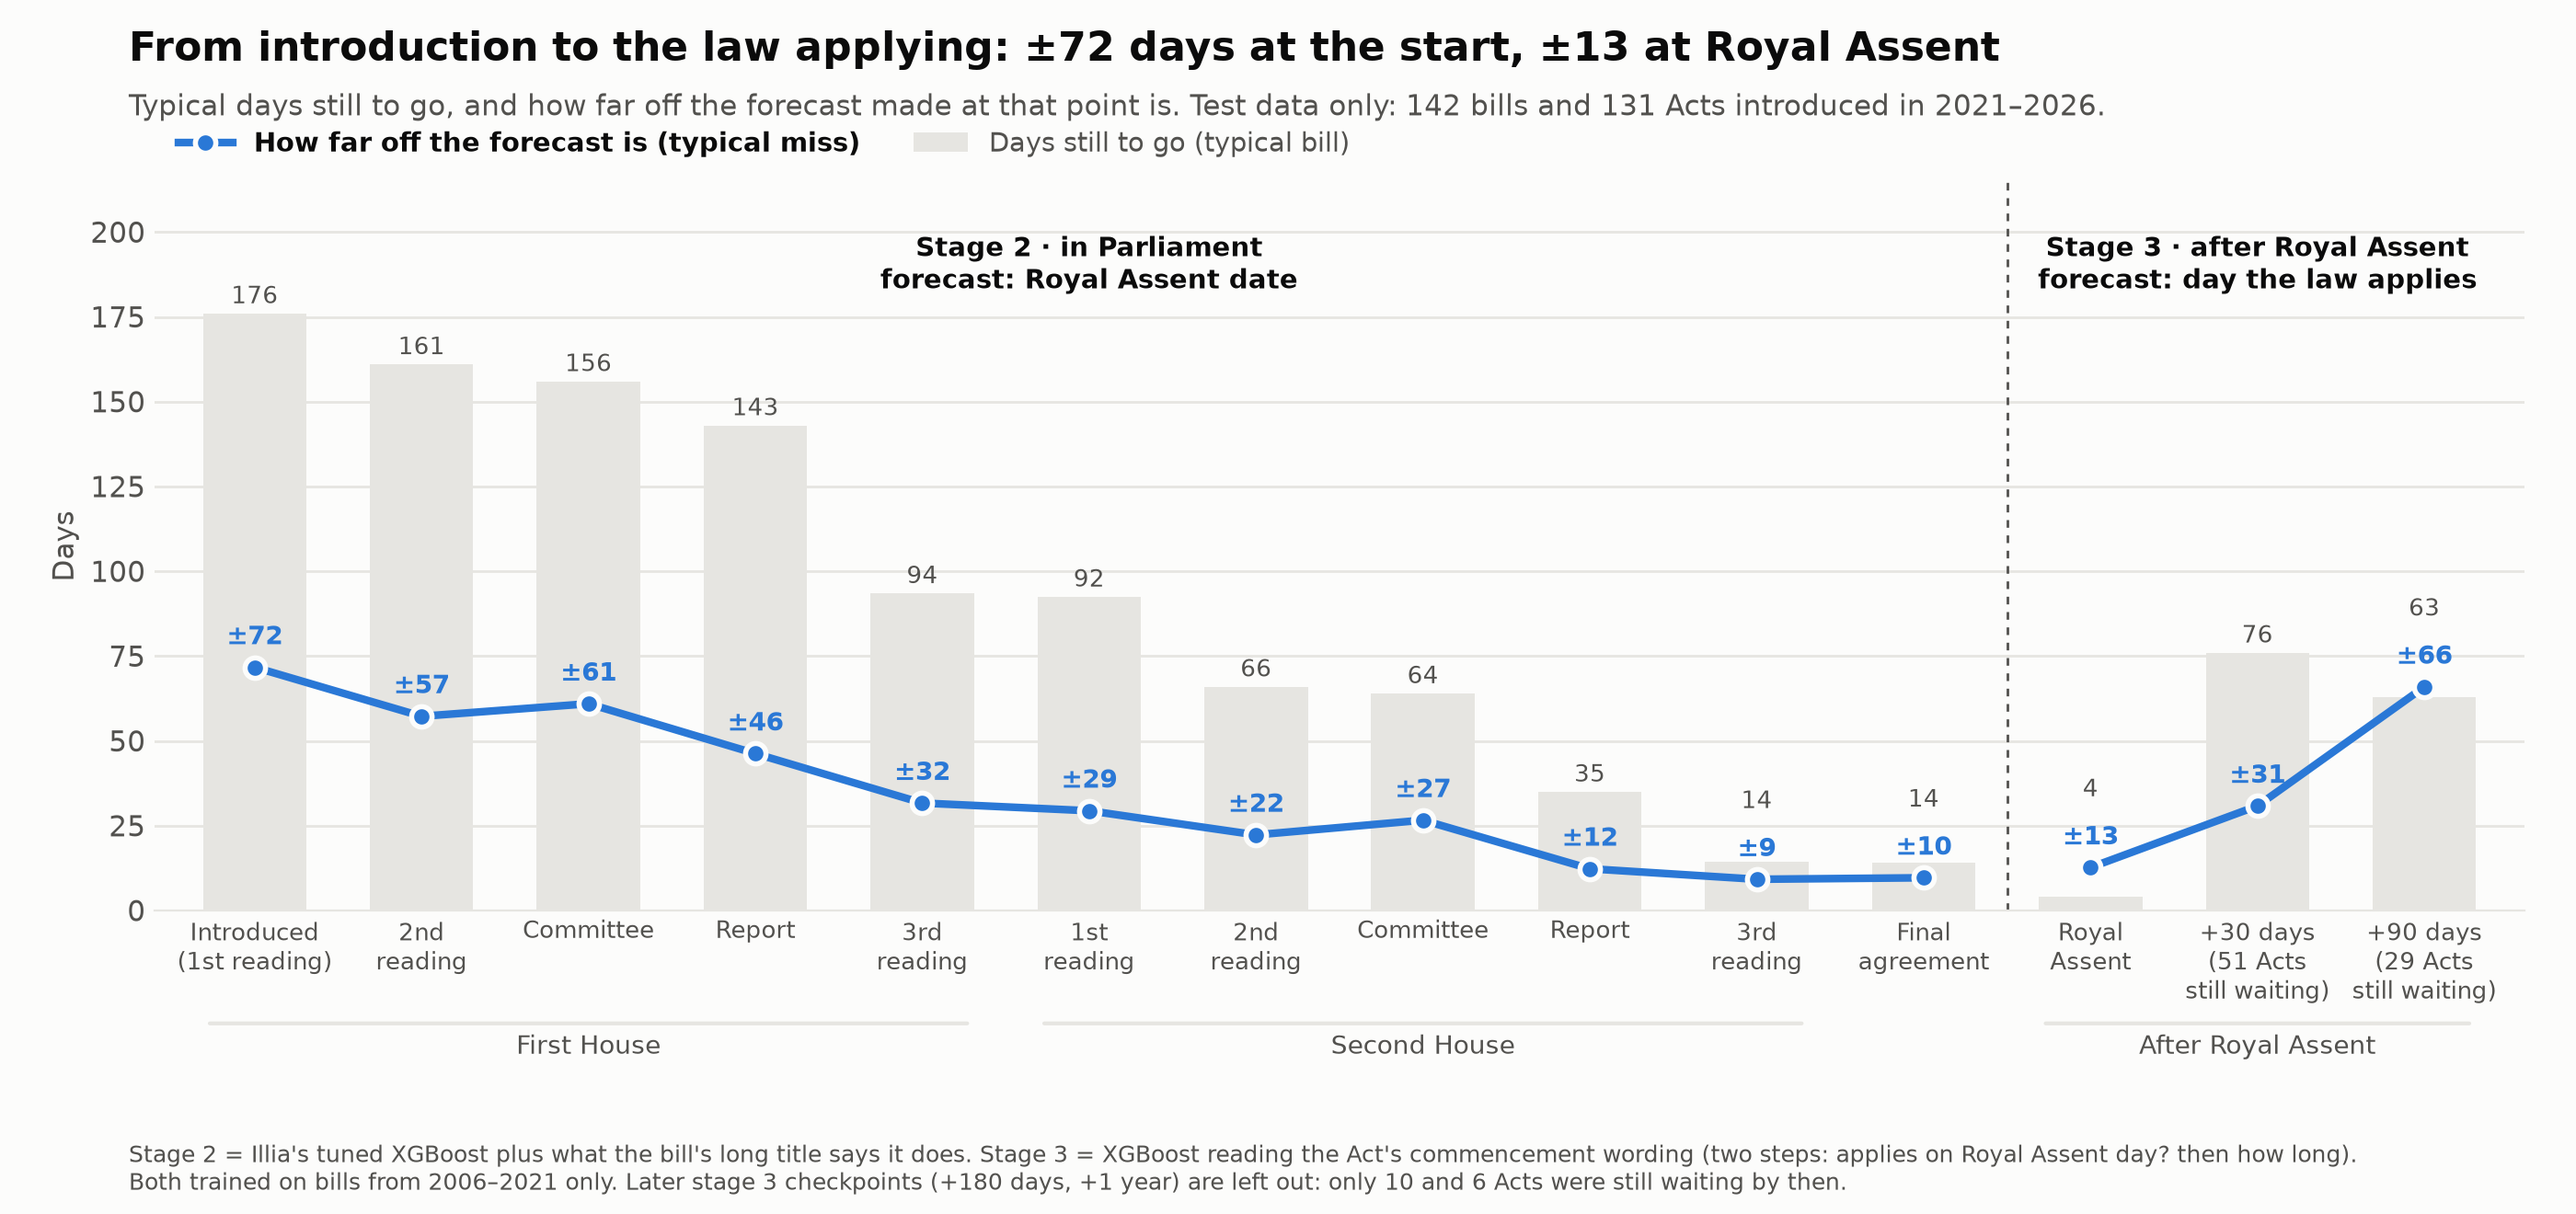
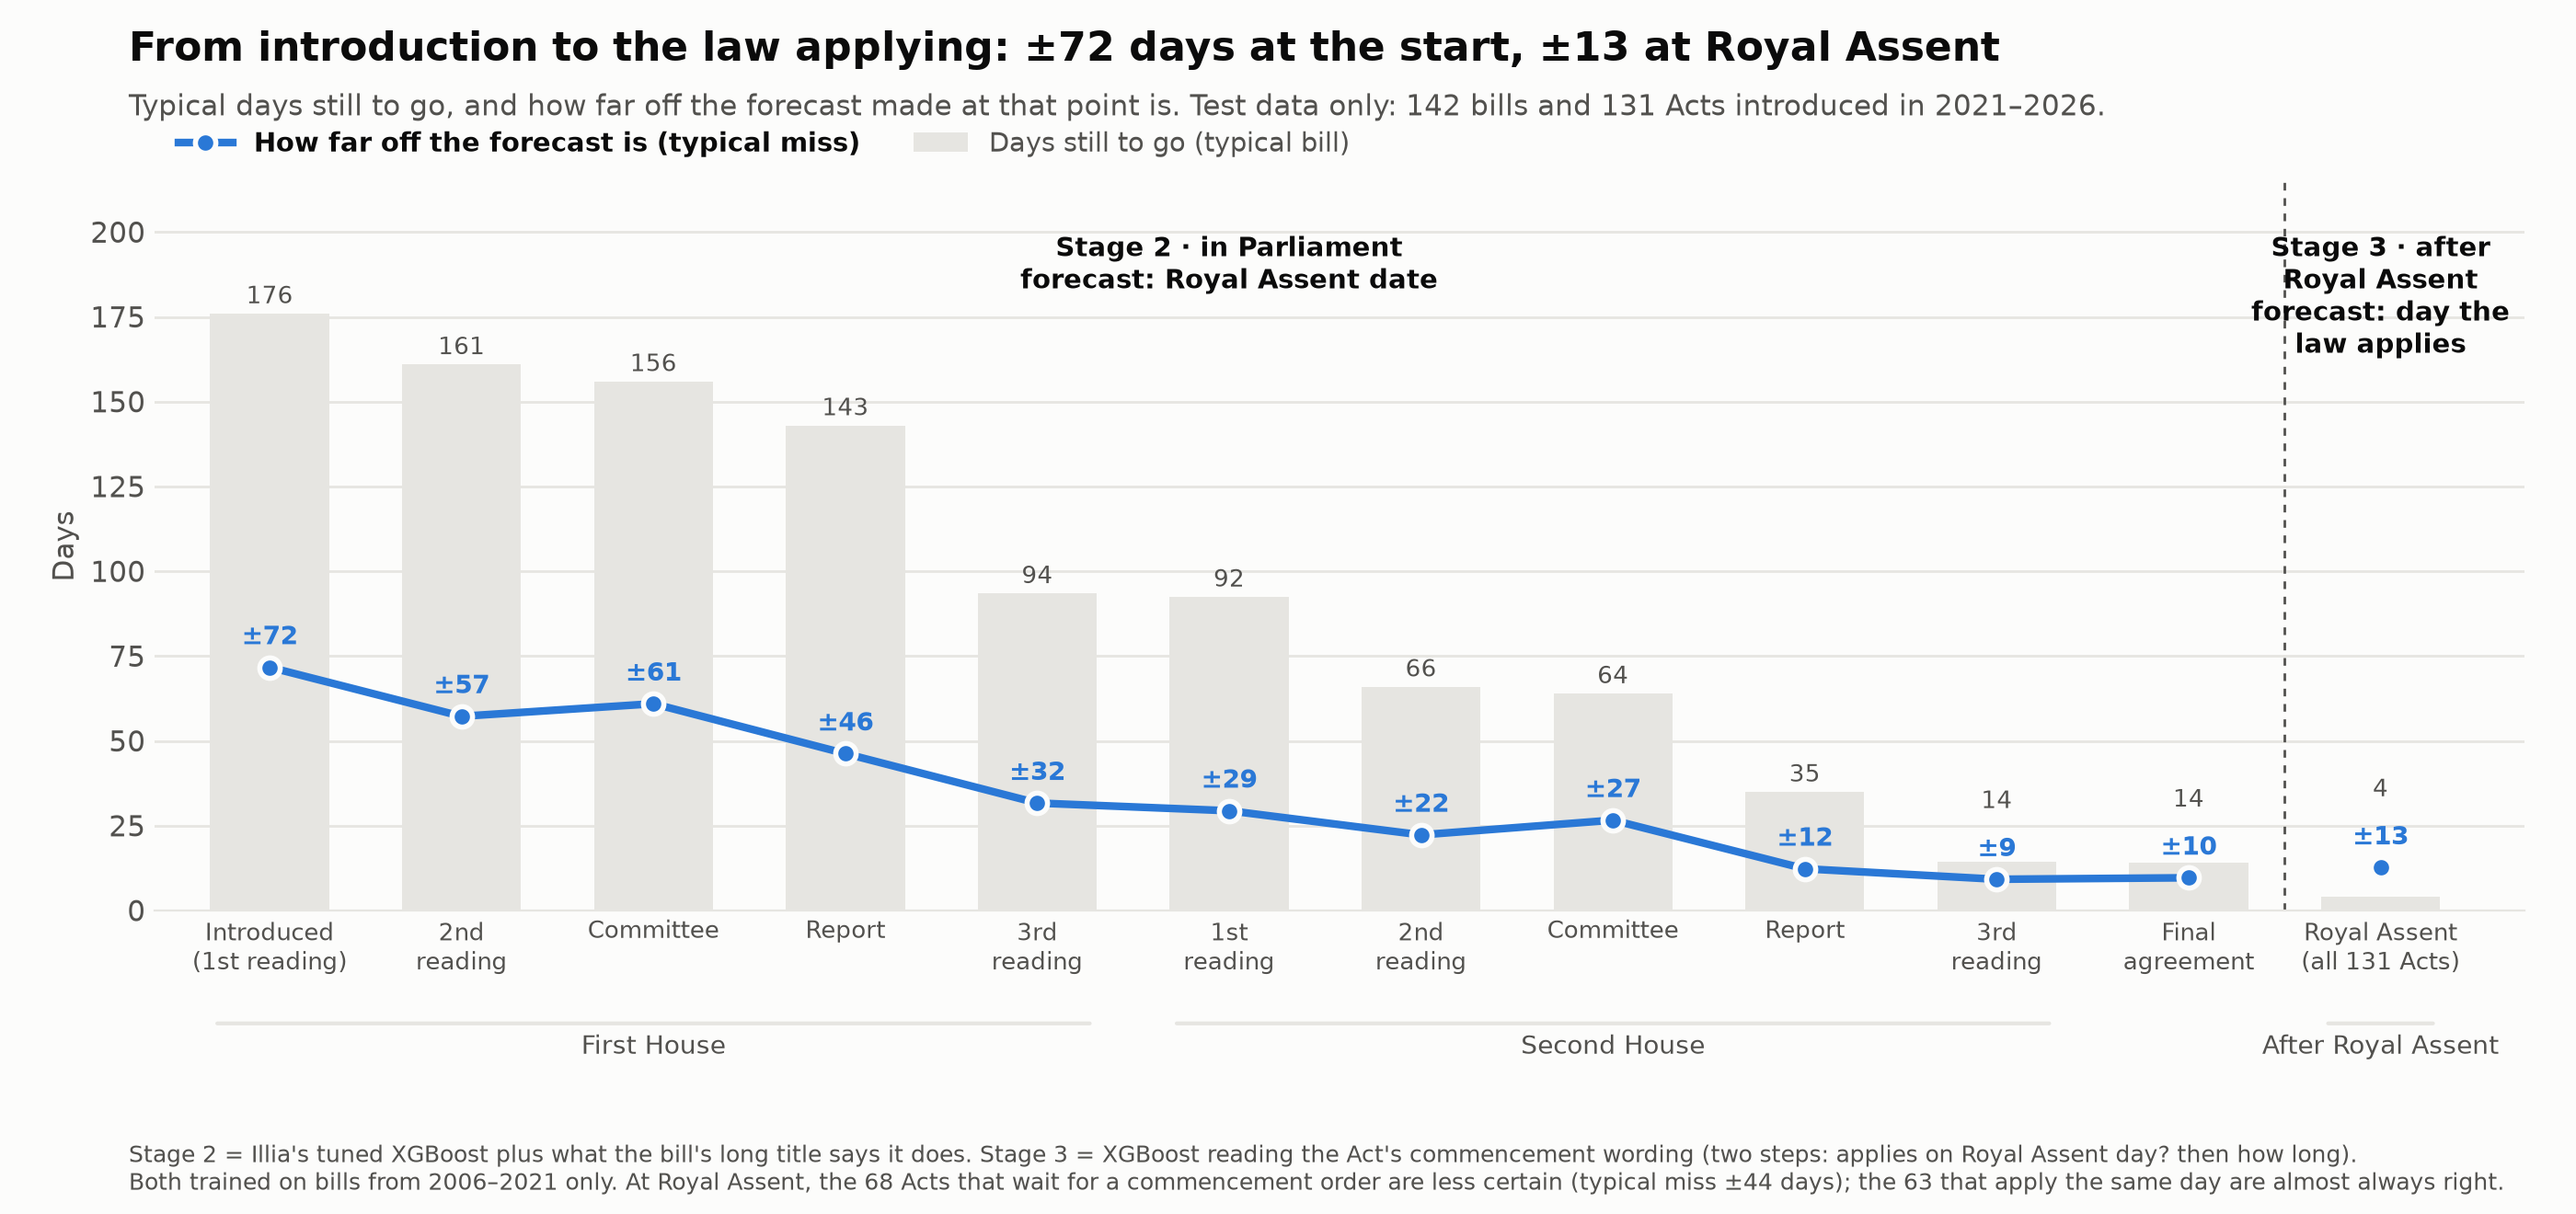
docs(analysis): stage 2 to 3 stakeholder chart on all test data only

diff --git a/backend/src/westminster_weather/analysis/commencement_xgb.py b/backend/src/westminster_weather/analysis/commencement_xgb.py
@@ -338,7 +338,7 @@ def run() -> dict:
 STAGE2_DIR = REPORTS / "remaining_time_tails_75_25"
 STAGE2_MODEL = "+ long title, bill weights"
 STAGE3_MODEL = "XGBoost (two step)"
-STAGE3_CHART_CHECKPOINTS = ["Royal Assent", "+30 days", "+90 days"]  # 25+ Acts each
+STAGE3_CHART_CHECKPOINTS = ["Royal Assent"]  # every Act; later checkpoints only cover slow ones
 
 
 def stage2_to_3_chart(report_dir: Path = REPORT_DIR) -> Path:
@@ -378,10 +378,10 @@ def stage2_to_3_chart(report_dir: Path = REPORT_DIR) -> Path:
     n2, n3 = s2["bill_id"].nunique(), s3["bill_id"].nunique()
 
     labels = [PLAIN_LABELS[a] for a in STAGE_ANCHORS] + [
-        "Royal\nAssent",
-        f"+30 days\n({g3.loc['+30 days', 'n']:.0f} Acts\nstill waiting)",
-        f"+90 days\n({g3.loc['+90 days', 'n']:.0f} Acts\nstill waiting)",
+        f"Royal Assent\n(all {g3.loc['Royal Assent', 'n']:.0f} Acts)"
     ]
+    at_ra = s3[s3["checkpoint"] == "Royal Assent"]
+    waiting = at_ra[at_ra["target_days"] > 0]
     left = list(g2["left"]) + list(g3["left"])
     miss = list(g2["miss"]) + list(g3["miss"])
     k = len(g2)
@@ -437,9 +437,9 @@ def stage2_to_3_chart(report_dir: Path = REPORT_DIR) -> Path:
         fontweight="bold",
     )
     ax.text(
-        k + 1,
+        k,
         top * 0.93,
-        "Stage 3 · after Royal Assent\nforecast: day the law applies",
+        "Stage 3 · after\nRoyal Assent\nforecast: day the\nlaw applies",
         ha="center",
         va="top",
         color=INK,
@@ -447,7 +447,7 @@ def stage2_to_3_chart(report_dir: Path = REPORT_DIR) -> Path:
         fontweight="bold",
     )
     ax.set_xticks(list(x), labels, fontsize=9.5, color=INK_SOFT)
-    ax.set_xlim(-0.6, len(labels) - 0.4)
+    ax.set_xlim(-0.6, len(labels) - 0.25)
     ax.set_ylim(0, top)
     ax.set_ylabel("Days", color=INK_SOFT)
     leg = ax.legend(
@@ -513,8 +513,9 @@ def stage2_to_3_chart(report_dir: Path = REPORT_DIR) -> Path:
         "Stage 2 = Illia's tuned XGBoost plus what the bill's long title says it does. "
         "Stage 3 = XGBoost reading the Act's commencement wording (two steps: applies on "
         "Royal Assent day? then how long).\nBoth trained on bills from 2006–2021 only. "
-        "Later stage 3 checkpoints (+180 days, +1 year) are left out: only 10 and 6 Acts "
-        "were still waiting by then.",
+        f"At Royal Assent, the {len(waiting)} Acts that wait for a commencement order are less "
+        f"certain (typical miss ±{waiting['e'].median():.0f} days); the "
+        f"{len(at_ra) - len(waiting)} that apply the same day are almost always right.",
         fontsize=9,
         color=INK_SOFT,
     )

diff --git a/docs/agent-logs/feat--takeup-model.md b/docs/agent-logs/feat--takeup-model.md
@@ -1,5 +1,11 @@
 # Agent log: `feat/takeup-model`
 
+## 2026-10-25 05:34 — docs(analysis): stage 2 to 3 stakeholder chart on all test data only
+
+- **What:** `0_stage2_to_stage3_for_stakeholders.png` now shows stage 3 at Royal Assent only (all 131 test Acts), dropping the +30 / +90 day checkpoints that cover only the slow Acts still waiting; the footnote gives the split at Royal Assent (68 Acts waiting for a commencement order, typical miss ±44 days; 63 applying the same day).
+- **Why:** Roman asked for the stage 2 to stage 3 stakeholder graph on general test data. Also tried improving stage 3 at +30 / +90 days (16 model settings, department typical wait, recency of regulations; chosen on validation sessions 32-35): no gain on test (+30: 32 days, +90: 69-72), not adopted.
+- **Checks:** `ruff check`: clean; rendered and checked. ±72 days at introduction, ±9 at second-House 3rd reading, ±13 at Royal Assent.
+
 ## 2026-10-25 05:29 — docs(analysis): stakeholder chart from stage 2 to stage 3 on test data
 
 - **What:** `commencement_xgb.py --chart` draws `backend/reports/commencement_xgb/0_stage2_to_stage3_for_stakeholders.png`: test data only (same 75/25 split), from first reading through Parliament (stage 2, new XGBoost, 142 bills: forecast of Royal Assent) to Royal Assent, +30 and +90 days (stage 3, two-step XGBoost, 131 Acts: forecast of the day the law applies). Grey bars = typical days still to go, line = typical miss. +180 days and +1 year left out (10 and 6 Acts).
